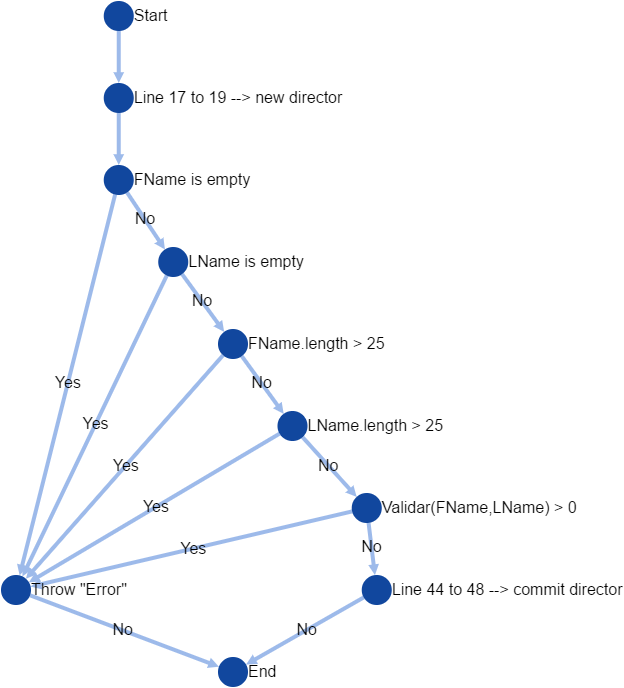
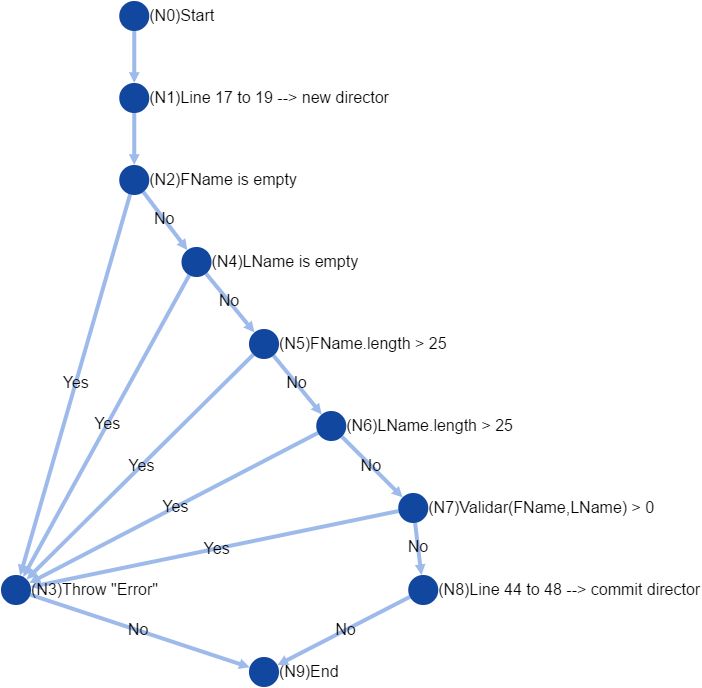
updates

diff --git a/robot_test/client_test_cases.rst b/robot_test/client_test_cases.rst
@@ -44,7 +44,7 @@ Test Cases
 Client Controller
 ..................
 
-This controller is in charged of create and delete clients who are going to buy videogames and movies.
+This controller is in charge of creating and deleting clients who are going to buy videogames and movies.
 
 For this controller we stablished the application of graph coverage by nodes. The test case ahead cover
 all the possibilities for code traces.
@@ -54,10 +54,30 @@ all the possibilities for code traces.
 .. image:: images/createClient.png
    :width: 40pt
 
+ .. list-table::
+    :widths: 15
+    :header-rows: 1
+
+    * - Test paths needed for Node coverage
+    * - [N0,N1,N2,N3,N22]
+    * - [N0,N1,N2,N4,N5,N6,N7,N8,N9,N10,N11,N12,N13,N14,N15,N16,N17,N18,N19,N21,N22]
+    * - [N0,N1,N2,N4,N5,N6,N7,N8,N9,N10,N11,N12,N13,N14,N15,N16,N17,N18,N19,N20,N22]
+
+
 **Graph for deleteClient Method:**
 
 .. image:: images/deleteClient.png
    :width: 40pt
+
+ .. list-table::
+    :widths: 15
+    :header-rows: 1
+
+    * - Test paths needed for Node coverage
+    * - [N0,N1,N2,N5,N7,N8,N9]
+    * - [N0,N1,N2,N5,N6,N9]
+    * - [N0,N1,N2,N3,N4,N9]
+
 
 .. code:: robotframework
 
@@ -170,7 +190,7 @@ all the possibilities for code traces.
 Company Controller
 ...................
 
-This controller is in charged of create companies which are going to be used in the software.
+This controller is in charge of creating companies which are going to be used in the software.
 
 .. code:: robotframework
 
@@ -223,12 +243,21 @@ This controller is in charged of create companies which are going to be used in 
 User Controller
 ................
 
-This controller is in charged of create users who are going to use the differents features of the software.
+This controller is in charge of creating users who are going to use the differents features of the software.
 
 **Graph for changePassword Method:**
 
 .. image:: images/changePassword.png
    :width: 40pt
+
+ .. list-table::
+    :widths: 15
+    :header-rows: 1
+
+    * - Test paths needed for Node coverage
+    * - [N0,N1,N2,N10]
+    * - [N0,N1,N3,N4,N5,N7,N8,N10]
+    * - [N0,N1,N3,N4,N5,N6,N9,N10]
 
 .. code:: robotframework
 
@@ -315,25 +344,33 @@ This controller is in charged of create users who are going to use the different
 Directors Controller
 ....................
 
-This controller is in charged of create directors for the movies that the software needs for movies
+This controller is in charge of creating directors for the movies that the software needs for movies
 
 **Graph for createDirector Method:**
 
 .. image:: images/createDirector.png
    :width: 40pt
 
+ .. list-table::
+    :widths: 15
+    :header-rows: 1
+
+    * - Test paths needed for Node coverage
+    * - [N0,N1,N2,N3,N9]
+    * - [N0,N1,N2,N4,N5,N6,N7,N8,N9]
+
 **Graph for updateDirector Method:**
 
 .. image:: images/updateDirector.png
    :width: 40pt
 
- .. list-table:: Test paths needed for Node coverage
-    :widths: 15 10 30
+ .. list-table::
+    :widths: 15
     :header-rows: 1
 
-    * - [n0,n1,n2,n3,n9]
-    * - [n0,n1,n2,n4,n5,n6,n7,n8,n9]
-
+    * - Test paths needed for Node coverage
+    * - [N0,N1,N2,N3,N9]
+    * - [N0,N1,N2,N4,N5,N6,N7,N8,N9]
 
 .. code:: robotframework
 
@@ -405,12 +442,26 @@ This controller is in charged of create directors for the movies that the softwa
 Games Controller
 ....................
 
-This controller is in charged of create games for the store.
+This controller is in charge of creating games for the store.
 
 **Graph for searchGame Method:**
 
 .. image:: images/searchGame.png
    :width: 40pt
+
+ .. list-table::
+    :widths: 15
+    :header-rows: 1
+
+    * - Test paths needed for Node coverage
+    * - [N0,N1,N14,N15,N17,N18,N19,N20]
+    * - [N0,N1,N14,N15,N16,N18,N19,N20]
+    * - [N0,N1,N2,N3,N5,N18,N19,N20]
+    * - [N0,N1,N2,N3,N4,N18,N19,N20]
+    * - [N0,N1,N6,N7,N9,N18,N19,N20]
+    * - [N0,N1,N6,N7,N8,N18,N19,N20]
+    * - [N0,N1,N10,N11,N13,N18,N19,N20]
+    * - [N0,N1,N10,N11,N12,N18,N19,N20]
 
 Conclusions
 -----------
